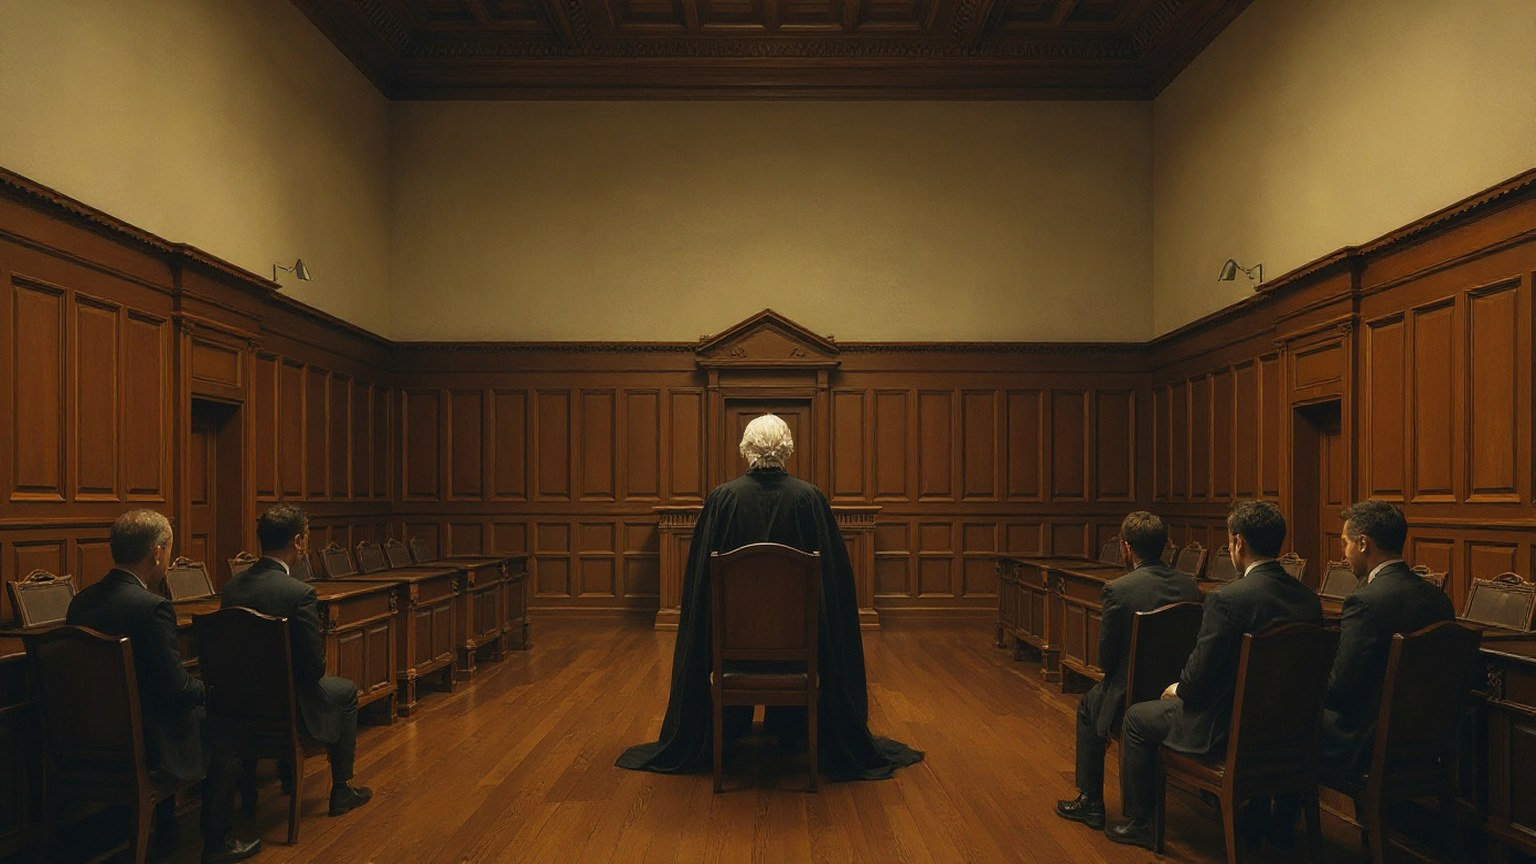
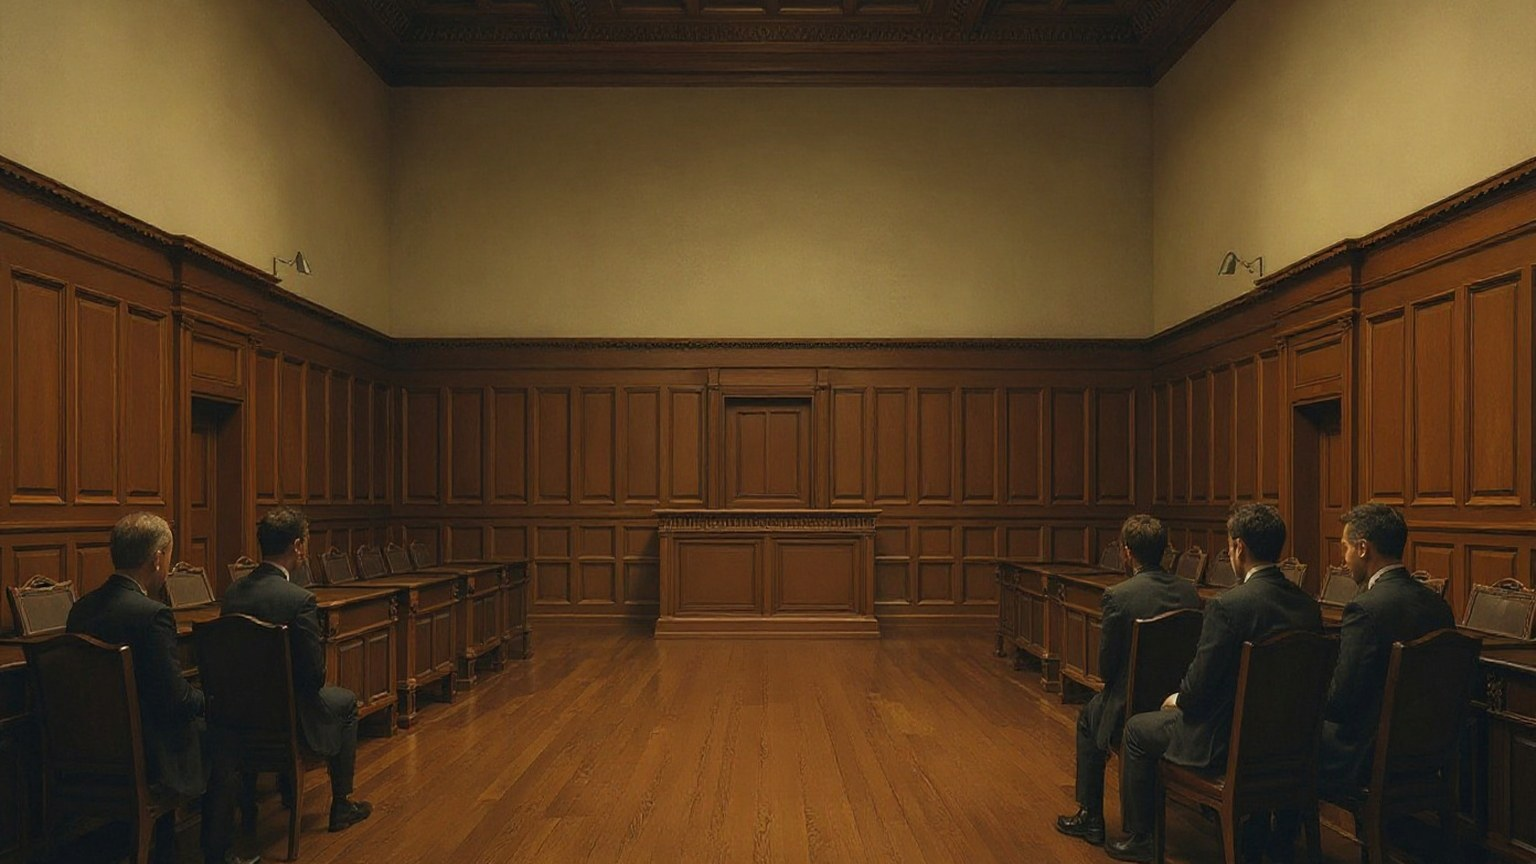
Law playtest: one validation only, judge no longer faces away in two scenes, correct question ordinal, witnesses address counsel properly, quick notes with a compile button beside speeches

diff --git a/learn/index.html b/learn/index.html
@@ -4188,6 +4188,8 @@
     .pl-log div { padding: 10px 12px; border-radius: 10px; background: rgba(230,215,176,0.07); font: 0.95rem/1.55 Georgia, serif; }
     .pl-log .me { background: rgba(230,215,176,0.16); }
     .pl-log b { display: block; margin-bottom: 3px; font: 700 0.62rem Arial, sans-serif; letter-spacing: 0.12em; text-transform: uppercase; opacity: 0.65; }
+    .pl-speech-grid { display: grid; grid-template-columns: minmax(0, 0.8fr) minmax(0, 1.2fr); gap: 18px; align-items: start; margin-top: 8px; } @media (max-width: 900px) { .pl-speech-grid { grid-template-columns: 1fr; } }
+    .pl-notes-area { width: 100%; min-height: 26vh; box-sizing: border-box; padding: 14px 16px; border: 1px dashed rgba(230,215,176,0.5); border-radius: 12px; background: rgba(5,5,10,0.4); color: var(--text, #E6D7B0); font: 0.95rem/1.6 Arial, sans-serif; resize: vertical; }
     .pl-closing-area { width: 100%; min-height: 34vh; box-sizing: border-box; margin-top: 8px; padding: 16px 18px; border: 1px solid rgba(230,215,176,0.4); border-radius: 12px; background: rgba(5,5,10,0.5); color: var(--text, #E6D7B0); font: 1.08rem/1.7 Georgia, serif; resize: vertical; }
     .pl-count { font: 0.75rem Arial, sans-serif; opacity: 0.6; }
 
@@ -9446,7 +9448,7 @@ SQIDAQAB
         for (const [kind, re, check] of LM_PII) masked = masked.replace(re, (m) => { if (check && !check(m)) return m; found.add(kind); return `[${kind} removed]`; });
         return { vulgar: LM_BAD_RE.some((re) => re.test(String(text || ''))), masked, pii: [...found] };
     }
-    const LM_SCREEN_IDS = /^(createIdea|createDetail-|plSpeech$|plQ$|chCountry$|chCurrency$|chPop$|chHistory$|tagIn-|chP-|chnAnswer)/;
+    const LM_SCREEN_IDS = /^(createIdea|createDetail-|plSpeech$|plSpeechNotes$|plQ$|chCountry$|chCurrency$|chPop$|chHistory$|tagIn-|chP-|chnAnswer)/;
     document.addEventListener('input', (e) => {
         const el = e.target;
         if (!el || !el.id || !LM_SCREEN_IDS.test(el.id)) return;
@@ -9961,7 +9963,7 @@ SQIDAQAB
             details: trial.details, concepts: trial.picked.map((n) => ({ label: n.label, subtopic: n.subtopic })),
         };
         createRunJob('/create/criminal-trial/build', payload).then((result) => {
-            trial.case = result; trial.caseTab = 'overview'; saveCreateTrial();
+            trial.case = result; trial.caseTab = 'overview'; trial.validated = false; trial.lastValidation = null; trial.validationApplied = []; trial.validationChanges = []; createValidation = null; saveCreateTrial();
             state.status = 'done';
         }).catch((err) => { state.status = 'error'; state.error = err.message || 'Cortex could not build this case.'; });
         renderCreateBuilding(body, trial, goTo, contentInner);
@@ -10155,16 +10157,20 @@ SQIDAQAB
             const r = await createSaveProject({});
             note.textContent = r.note;
         });
+        if (!createValidation && trial.validated && trial.lastValidation) {
+            createValidation = { status: 'done', startedAt: Date.now(), shown: CREATE_VALIDATE_STEPS.length, completed: CREATE_VALIDATE_STEPS.length, applied: new Set(trial.validationApplied || []), changes: trial.validationChanges || [], stale: false, result: trial.lastValidation };
+        }
         if (createValidation) renderCreateValidation(body, trial);
     }
 
     function startCreateValidation(body, trial) {
+        if (trial.validated) return;   // one validation only
         const state = { status: 'running', startedAt: Date.now(), shown: 1, completed: 0, applied: new Set(), changes: [], stale: false };
         createValidation = state;
         const payload = { case: trial.case, role: trial.role, minutes: trial.minutes, concepts: trial.picked.map((n) => ({ label: n.label, subtopic: n.subtopic })) };
         createRunJob('/create/criminal-trial/validate', payload).then((result) => {
             state.status = 'done'; state.result = result;
-            trial.case.coverage = result.coverage; saveCreateTrial();
+            trial.case.coverage = result.coverage; trial.validated = true; trial.lastValidation = result; trial.validationApplied = []; trial.validationChanges = []; saveCreateTrial();
         }).catch((err) => { state.status = 'error'; state.error = err.message || 'Cortex could not check this case.'; });
         renderCreateValidation(body, trial);
         body.querySelector('#createValidatePanel')?.scrollIntoView({ behavior: 'smooth', block: 'nearest' });
@@ -10193,7 +10199,7 @@ SQIDAQAB
             });
             const finished = state.status === 'done' && state.completed >= steps.length;
             const key = state.status === 'error' ? 'error' : finished ? 'done' : 'working';
-            if (btn) btn.disabled = key === 'working';
+            if (btn) { btn.disabled = key === 'working' || key === 'done'; if (key === 'done') btn.textContent = 'Validated ✓'; }
             if (key === phase) return;
             phase = key;
             if (key === 'working') { title.innerHTML = 'Cortex is checking your case<span class="dots"></span>'; tail.innerHTML = ''; return; }
@@ -10212,7 +10218,7 @@ SQIDAQAB
                 ${(r.issues || []).filter((i, idx) => !state.applied.has(idx)).length > 1 ? '<div class="create-ready-actions" style="margin:6px 0 4px;"><button type="button" class="create-cta" id="createApplyAll" style="padding:10px 22px;font-size:0.9rem;">Apply all fixes</button></div>' : ''}
                 ${state.changes.length ? `<div class="create-issue"><b>Changes made</b><ul style="margin:6px 0 0 18px;padding:0;">${state.changes.map((c) => `<li>${escapeHtml(c)}</li>`).join('')}</ul></div>` : ''}
                 <p class="create-apply-note" id="createApplyNote"></p>
-                ${state.stale ? '<p class="create-error" style="max-width:none;">You have changed the case with these fixes, so press Validate again to make sure it now works before you play.</p>' : (r.workable ? '<div class="create-ready-actions" style="margin-top:18px;"><button type="button" class="create-play" id="createPlayBtn">Play</button></div>' : '<p class="create-error" style="max-width:none;">Fix the items marked "Must fix", then press Validate again.</p>')}`;
+                ${(() => { const open = (r.issues || []).map((i, idx) => ({ i, idx })).filter((x) => x.i.severity === 'blocker' && !state.applied.has(x.idx)); return (r.workable || !open.length) ? `${state.changes.length ? '<p class="create-apply-note" style="max-width:none;">Your fixes are in. There is no need to validate again.</p>' : ''}<div class="create-ready-actions" style="margin-top:18px;"><button type="button" class="create-play" id="createPlayBtn">Play</button></div>` : '<p class="create-error" style="max-width:none;">Apply the fixes marked "Must fix" to continue. A case is only validated once.</p>'; })()}`;
             tail.querySelector('#createPlayBtn')?.addEventListener('click', () => ptStart(trial));
             const applyFixes = async (indexes) => {
                 const note = tail.querySelector('#createApplyNote');
@@ -10228,6 +10234,7 @@ SQIDAQAB
                     indexes.forEach((i) => state.applied.add(i));
                     (result.changes || []).forEach((c) => state.changes.push(c));
                     state.stale = true;
+                    trial.validationApplied = [...state.applied]; trial.validationChanges = state.changes.slice();
                     saveCreateTrial();
                     renderCreateTrialBuilder(document.getElementById('contentInner'));
                 } catch (err) {
@@ -10859,13 +10866,46 @@ SQIDAQAB
         const stage = ptStage(`<div class="pl-dialog pl-fade">
             <div class="pl-speaker">Your ${kind} speech<small>${ptE(pt.roleText)}</small></div>
             <p class="pl-text muted">${kind === 'opening' ? 'Address the jury. Tell them what this case is about and what you say the evidence will show.' : 'Members of the jury are listening. Make your closing speech in your own words.'}</p>
-            <textarea class="pl-closing-area" id="plSpeech" placeholder="${kind === 'opening' ? 'Members of the jury…' : 'Members of the jury, you have heard the evidence…'}" style="min-height:${kind === 'opening' ? '18vh' : '32vh'}"></textarea>
+            <div class="pl-speech-grid">
+                <div class="pl-notes-col">
+                    <div class="pl-h" style="margin-top:0;">Quick notes</div>
+                    <p class="pl-p muted" style="font-size:0.85rem;margin:2px 0 6px;">Jot down the points you want to make. Cortex can turn them into a proper courtroom speech, and you can edit it afterwards.</p>
+                    <textarea class="pl-notes-area" id="plSpeechNotes" placeholder="${kind === 'opening' ? 'e.g. defendant acted in self-defence; the only eyewitness had been drinking; the knife was never proved to be his…' : 'e.g. prosecution has not proved intention; CCTV shows the victim swung first; witness changed her story under cross-examination; ask for not guilty…'}"></textarea>
+                    <div class="pl-actions" style="margin-top:8px;"><button type="button" class="pl-btn primary" id="plCompile">Compile into a speech ▸</button></div>
+                    <p class="pl-note" id="plCompileNote" style="display:none;"></p>
+                </div>
+                <div class="pl-speech-col">
+                    <div class="pl-h" style="margin-top:0;">Your speech</div>
+                    <textarea class="pl-closing-area" id="plSpeech" placeholder="${kind === 'opening' ? 'Members of the jury…' : 'Members of the jury, you have heard the evidence…'}" style="min-height:${kind === 'opening' ? '18vh' : '32vh'}"></textarea>
+                </div>
+            </div>
             <div class="pl-actions"><span class="pl-count" id="plWords">0 words</span><span class="pl-spacer"></span><button type="button" class="pl-btn" id="plTranscriptAll">What the court has heard</button><button type="button" class="pl-btn primary" id="plDeliver" disabled>Deliver ${kind} ▸</button></div></div>`);
         const ta = stage.querySelector('#plSpeech');
         const words = () => (ta.value.trim() ? ta.value.trim().split(/\s+/).length : 0);
         ta.value = kind === 'opening' ? pt.openingText : pt.closingText;
         const refresh = () => { const n = words(); stage.querySelector('#plWords').textContent = `${n} words`; stage.querySelector('#plDeliver').disabled = n < minWords; };
         ta.addEventListener('input', refresh); refresh(); ta.focus();
+        const notesEl = stage.querySelector('#plSpeechNotes');
+        pt.speechNotes = pt.speechNotes || {};
+        notesEl.value = pt.speechNotes[kind] || '';
+        notesEl.addEventListener('input', () => { pt.speechNotes[kind] = notesEl.value; });
+        stage.querySelector('#plCompile').addEventListener('click', async () => {
+            const btn = stage.querySelector('#plCompile'), note = stage.querySelector('#plCompileNote');
+            const notes = notesEl.value.trim();
+            if (notes.split(/\s+/).filter(Boolean).length < 5) { note.style.display = ''; note.textContent = 'Jot down at least a few points first.'; return; }
+            if (ta.value.trim() && !window.confirm('Replace what is in your speech box with a new version written from your notes?')) return;
+            btn.disabled = true; btn.textContent = 'Cortex is writing it up…'; note.style.display = 'none';
+            try {
+                const send = () => createAuthedFetch('/playtest/compile-speech', { method: 'POST', body: JSON.stringify({ sessionId: pt.sessionId, kind, side: pt.side, notes, establishedFactIds: [...pt.established], clientUsedUsd: createSpend.usedUsd }) });
+                let { resp, body: out } = await send();
+                if (resp.status === 409 && out.code === 'SESSION_EXPIRED') { await ptRestoreSession(); ({ resp, body: out } = await send()); }
+                if (out.spend) createNoteSpend(out.spend);
+                if (!resp.ok) throw new Error(out.error || 'Cortex could not write that up.');
+                ta.value = out.speech; refresh();
+                note.style.display = ''; note.textContent = out.tips && out.tips.length ? 'Written up from your notes. To make it stronger, think about: ' + out.tips.join(' ') : 'Written up from your notes. Edit it however you like.';
+            } catch (err) { note.style.display = ''; note.textContent = err.message || 'Cortex could not write that up.'; }
+            btn.disabled = false; btn.textContent = 'Compile into a speech ▸';
+        });
         stage.querySelector('#plTranscriptAll').addEventListener('click', ptShowHeard);
         stage.querySelector('#plDeliver').addEventListener('click', () => {
             if (kind === 'opening') pt.openingText = ta.value.trim();
@@ -10990,6 +11030,8 @@ SQIDAQAB
         const ch = o.ch;
         let busy = false; let pending = []; let draft = ''; let judgeNote = ''; let errorText = '';
         const asked = () => o.hist.filter((h) => h.from === 'me').length;
+        const ORD = ['second', 'third', 'fourth', 'fifth', 'sixth', 'seventh', 'eighth', 'ninth', 'tenth'];
+        const placeholderNow = () => { const n = asked(); if (n === 0) return o.placeholder; const w = o.placeholder.includes('witness') ? ' to the witness' : ''; return `Put your ${ORD[n - 1] || 'next'} question${w}…`; };
         const draw = () => {
             const lastThem = [...o.hist].reverse().find((h) => h.from === 'them');
             const capped = asked() >= o.cap;
@@ -10998,7 +11040,7 @@ SQIDAQAB
                 <p class="pl-text" id="plReply">${ptE(lastThem ? lastThem.text : o.intro)}</p>
                 ${judgeNote ? `<p class="pl-note">${ptE(judgeNote)}</p>` : ''}${errorText ? `<p class="pl-note">${ptE(errorText)}</p>` : ''}
                 ${pending.length ? `<div>${pending.map((id) => `<span class="pl-chip" style="margin-right:8px;">Presenting: ${ptE(ptEv(id).title)} <button type="button" data-unpresent="${ptE(id)}" aria-label="Stop presenting this">✕</button></span>`).join('')}</div>` : ''}
-                ${capped ? `<p class="pl-note">${ptE(o.capNote)}</p>` : `<div class="pl-ask"><textarea id="plQ" rows="2" placeholder="${ptE(o.placeholder)}"></textarea><button type="button" class="pl-btn primary" id="plAsk">Ask</button></div>`}
+                ${capped ? `<p class="pl-note">${ptE(o.capNote)}</p>` : `<div class="pl-ask"><textarea id="plQ" rows="2" placeholder="${ptE(placeholderNow())}"></textarea><button type="button" class="pl-btn primary" id="plAsk">Ask</button></div>`}
                 <div class="pl-actions"><button type="button" class="pl-btn" id="plPresent">Present evidence</button><button type="button" class="pl-btn" id="plTranscript">Transcript</button><span class="pl-spacer"></span><button type="button" class="pl-btn${capped ? ' primary' : ''}" id="plFinish">${ptE(o.finishLabel)} ▸</button></div></div>`);
             const ta = stage.querySelector('#plQ');
             if (ta) {
@@ -11045,7 +11087,7 @@ SQIDAQAB
     }
     async function ptCharacterTurn({ ch, message, setting, asking, evIds, hist, shownIds }) {
         const send = () => createAuthedFetch('/playtest/character-turn', { method: 'POST', body: JSON.stringify({
-            sessionId: pt.sessionId, characterId: ch.id, message, setting, asking, presentedEvidenceIdsNow: evIds && evIds.length ? evIds : undefined, presentedEvidenceIds: shownIds,
+            sessionId: pt.sessionId, characterId: ch.id, message, setting, asking, counselName: ptCounsel(setting === 'interview' ? pt.side : asking), presentedEvidenceIdsNow: evIds && evIds.length ? evIds : undefined, presentedEvidenceIds: shownIds,
             history: hist.slice(-10).map((h) => ({ from: h.from, text: h.text })), clientUsedUsd: createSpend.usedUsd,
         }) });
         let { resp, body } = await send();
